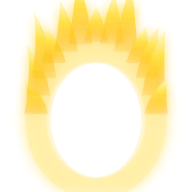
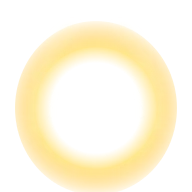
Replay: ออร่านุ่ม + ซอลมีออร่า · ลูน่านับหมัดถัดไป · คู่หูแบนเนอร์รวมชมพู+หัวใจ (user 29 ก.ย.)
- aura.webp ใหม่: เรืองทองนุ่ม ไม่มีเปลวแหลม · ซอลเองติดออร่าด้วย
- 🌙 ป้ายบนหัว = เฟสหมัดถัดไป (เริ่ม 1/3) ขยับตอนหมัดกระทบ · หมัดหน้าเต็มดวงเรืองม่วง · ตายแล้วป้ายหาย
- 💗 รางวัลคนเก่ง (🐳🦭) / องศาซัน (☀🌍 ร่างองศา): joinDuoOpening รวมยกแรกเป็นก้อนเดียว · duoRegen ก้อนเดียวต่อฝั่ง
  แบนเนอร์สีชมพู + ท่าหัวใจ (heart.webp)
- หมายเหตุ: ตำนานได้บัฟซอลเป็นบั๊กของห้องแล็บ (ส่งแค่ id ไม่ส่ง rarity) ไม่ใช่ของเกมจริง

diff --git a/src/components/battle/BattleReplay.vue b/src/components/battle/BattleReplay.vue
@@ -380,7 +380,7 @@ function showMini(e, force = false) {
   if (!force && now - (miniLast.get(e.uid) || -1e9) < MINI_GAP_MS / (pace.value || 1)) return
   miniLast.set(e.uid, now)
   miniView.value = { face: defForUid(e.uid)?.emoji || '✨', icon: e.icon || null, name: skillTitle(e), side: e.uid[0],
-    tint: tintOf(e.petId || defForUid(e.uid)?.id, e.fxKind) }
+    tint: isDuoEvent(e) ? tintOf('duo') : tintOf(e.petId || defForUid(e.uid)?.id, e.fxKind) }
   const el = miniEl.value; if (!el) return
   el.classList.remove('on'); void el.offsetWidth; el.classList.add('on')
 }
@@ -423,7 +423,7 @@ function clearHighlights() { Object.values(els).forEach(el => el && el.classList
 function setDead(uid) {
   const dead = (hp.value[uid] ?? 100) <= 0
   highlight(uid, 'dead', dead)
-  if (dead) { fx?.linkHide(uid); fx?.auraOff(uid) }   // 🐘 เส้นลิงก์ดับ · ☀ ออร่าดับ
+  if (dead) { fx?.linkHide(uid); fx?.auraOff(uid); if (chipOn.value[uid]?.hold) hideChip(uid) }   // 🐘 เส้นลิงก์ · ☀ ออร่า · ป้ายค้าง ดับตามตัว
 }
 
 // ── fx pool (Phase 2a): pops/callouts/koPuff/projectile ออกจาก Vue reactivity → plain WAAPI pool ──
@@ -528,6 +528,7 @@ const tuning = computed(() => props.data?.tuning || {})
 // rng: ลำดับโชว์ยกแรกสุ่มใหม่ทุกไฟต์ (แสดงผลล้วน ไม่แตะผลไฟต์)
 const beats = computed(() => buildBeats(rawLog.value, maxHp, {
   rng: Math.random, showPets: LEGEND_SHOW, statsBase, bannerByCount: tuning.value.bannerByCount !== false,
+  duoPairs: duoPairsOf(props.data),
   ...(typeof tuning.value.hitSpread === 'number' ? { hitSpread: tuning.value.hitSpread } : {}),
 }))
 const done = computed(() => idx.value >= beats.value.length)
@@ -713,6 +714,7 @@ const teamIds = computed(() => ({
 /** ชื่อที่ควรพิมพ์บนชิป/แบนเนอร์ของ event นี้ (log ยังแบกชื่อจริงไว้เสมอ) */
 function skillTitle(e) {
   if (e.fxKind === 'chain') return 'ฟาดต่อเนื่อง!'   // 👹 ฟาดล้มแล้วตีต่อ (29 ก.ย. user)
+  if (isDuoEvent(e) && ['sol', 'earth'].includes(e.petId)) return 'องศาซัน'
   if (e.effect === 'fullMoon') return 'FULL MOON SHOT!'   // 🌙 เต็มดวง (29 ก.ย. user)
   return passiveTitle(e.name || 'ทักษะเฉพาะ', e.petId, teamIds.value[e.side] || null)
 }
@@ -880,6 +882,10 @@ function holdChip(uid, name, icon, tone = '') {
 }
 // 🌙 ป้ายนับเฟสบนหัว 1/3 → 2/3 (เรืองม่วง = หมัดหน้าเต็มดวง) → 3/3 · ติดหลังหมัดจบ (event มาก่อนหมัดใน log)
 const lunaPhase = new Map()   // uid → เฟสของหมัดที่เพิ่งออก (0 ดับ · 1 เสี้ยว · 2 เต็ม)
+/** ป้ายบนหัวลูน่า = เฟสของหมัดถัดไป n/3 · หมัดหน้าเต็มดวง = เรืองม่วง */
+function lunaChip(uid, next) {
+  holdChip(uid, `${next + 1}/3`, ['🌑', '🌙', '🌕'][next], next === 2 ? 'moon' : 'luna')
+}
 function hideChip(uid) {
   const cur = chipOn.value[uid]; if (!cur) return
   chipOn.value = { ...chipOn.value, [uid]: { ...cur, out: true } }
@@ -919,7 +925,7 @@ async function spotlightPassive(e, t, g, opts = {}) {
     desc: '', side: opts.side || e.uid?.[0] || 'A',
     // หน้าคู่ (☀🌍 ร่างองศา · 🐳🦭 คู่หู) — ขึ้นเฉพาะตอนคู่นั้นทำงานอยู่จริงในทีม (duoPartnerOf เช็คให้แล้ว)
     face2: (() => { const d = defForUid(e.uid); const id = duoPartnerOf(d.id, sideTeam(e.uid[0])); return id ? getPetDef(id)?.emoji || null : null })(),
-    tint: tintOf(e.petId || defForUid(e.uid)?.id, e.fxKind),
+    tint: isDuoEvent(e) ? tintOf('duo') : tintOf(e.petId || defForUid(e.uid)?.id, e.fxKind),
   }
   spotView.value = view
   spot.value = view
@@ -948,6 +954,7 @@ function lungeStyle(beat) {
 // 🐘 เส้นลิงก์บากุ — ขึ้นตอนไฟต์เริ่ม (beat แรก) จากบากุไปเพื่อนทุกตัวที่ยังอยู่
 function showLinks() {
   ensureFx(); fx?.linkClear()
+  for (const u of Object.keys(maxHp)) if (defForUid(u)?.id === 'luna') lunaChip(u, 0)   // 🌙 เริ่มไฟต์ 1/3
   for (const [side, team] of [['A', props.data?.playerTeam], ['B', props.data?.botTeam]]) {
     ;(team || []).forEach((p, i) => {
       if (p?.id !== 'qilin') return
@@ -960,7 +967,36 @@ function showLinks() {
 // ── โชว์ไทม์เลเจนด์: ท่าประจำตัว (utils/battleShowtime.js) ลงพร้อมผลของสกิล ──
 // เล่นเฉพาะตอนสปอตไลต์ (ยกแรก/ครั้งแรก/โมเมนต์) = ครั้งละไม่กี่ทีต่อไฟต์ ไม่รก · ไม่ await (สไปรต์อยู่ชั้น fx แยกจากการ์ด)
 // tuning.showtime === false = ปิด (ห้องแล็บเทียบกับของเดิม)
+// 💗 คู่หู: รางวัลคนเก่ง (🐳🦭 อยู่ทีมเดียวกัน) · องศาซัน (☀🌍 ร่างองศา) — แบนเนอร์รวมชมพู + หัวใจ (29 ก.ย. user)
+function duoPartnerUid(e) {
+  const d = defForUid(e.uid); if (!d) return null
+  const pid = duoPartnerOf(d.id, sideTeam(e.uid[0])); if (!pid) return null
+  const i = ((e.uid[0] === 'A' ? props.data?.playerTeam : props.data?.botTeam) || []).findIndex(p => p?.id === pid)
+  return i >= 0 ? e.uid[0] + i : null
+}
+const DUO_EFFECTS = new Set(['teamHp', 'teamAtk', 'duoRegen', 'rarityBoost'])
+const isDuoEvent = (e) => DUO_EFFECTS.has(e.effect) && !!duoPartnerUid(e)
+function duoPairsOf(d) {
+  const out = []
+  for (const [side, team] of [['A', d?.playerTeam], ['B', d?.botTeam]]) {
+    const t = (team || []).filter(Boolean), at = (id) => (team || []).findIndex(p => p?.id === id)
+    for (const [x, y] of [['whale', 'seal'], ['sol', 'earth']]) {
+      if (at(x) < 0 || at(y) < 0) continue
+      if (x === 'sol' && !degreeFormActive(t)) continue
+      out.push([side + at(x), side + at(y)])
+    }
+  }
+  return out
+}
+
 function playShowtime(e) {
+  if (isDuoEvent(e)) {
+    if (tuning.value.showtime === false) return
+    const side = e.uid[0]
+    fx?.showtime('duo', { owner: e.uid, partner: duoPartnerUid(e),
+      team: Object.keys(maxHp).filter(u => u[0] === side && (hp.value[u] ?? 100) > 0) })
+    if (e.effect !== 'rarityBoost') return   // ซัน: ยังเล่นดวงอาทิตย์ต่อด้วย
+  }
   if (e.effect === 'infect' || e.effect === 'infectSpread') return   // 👾 แปะเชื้อ = แค่ป้ายชั้น · ควันแตกตอนโดนตี (landBurst)
   if (e.effect === 'infectBurst' && !e.landing) return
   if (tuning.value.showtime === false || !hasShowtime(e.petId)) return
@@ -1001,7 +1037,10 @@ function firePassiveFx(e) {
   if (e.fxKind === 'windup') { holdChip(e.uid, 'ง้างตะบอง…', '💢'); boostOni(e.uid) }
   if (e.fxKind === 'chain') sfx('p_chain')
   // ☀ ซอล: ตัวที่ได้บัฟติดออร่าซูเปอร์ไซย่า แรงตาม % (ธรรมดา 50 = เต็ม) · ตำนานไม่ได้ = ไม่มีออร่า
-  if (e.effect === 'rarityBoost' && e.boosts) for (const [u, pct] of Object.entries(e.boosts)) fx?.auraOn(u, pct / 50)
+  if (e.effect === 'rarityBoost' && e.boosts) {
+    for (const [u, pct] of Object.entries(e.boosts)) fx?.auraOn(u, pct / 50)
+    fx?.auraOn(e.uid, 0.6)   // ซอลเองไม่ได้บัฟ แต่เป็นต้นแสง ⇒ มีออร่าด้วย (29 ก.ย. user)
+  }
   if ((e.fxKind === 'moon' || e.fxKind === 'fullMoon') && typeof e.phase === 'number') lunaPhase.set(e.uid, e.phase)
 
   // ── หลอดเลือด: ฮีล/ฟื้น/รับแทน ทำให้เลือดเปลี่ยนโดยไม่มี attack event
@@ -1144,7 +1183,7 @@ function applyImpact(beat, g, t) {
   //    ถ้าวันหลังเพิ่ม kind ใหม่แล้วลืมเขียนกิ่ง จะได้ default (เงียบ) ซึ่งปลอดภัย ไม่ใช่ดังสุด
   const spark = sparkOf(defForUid(beat.attacker))
   const w = beat.weight ?? 0
-  if (chipOn.value[beat.attacker]?.hold) hideChip(beat.attacker)
+  if (chipOn.value[beat.attacker]?.hold && !chipOn.value[beat.attacker].tone) hideChip(beat.attacker)   // ป้ายโอนิ · ป้ายลูน่าค้างตลอด
   // หมัดลูก (สะท้อนเกราะ/cleave) อยู่ใน beat ของหมัดหลักที่ยังไม่มาถึง — ห้ามปล่อยเชื้อค้างทิ้ง
   if (beat.kind !== 'sub') {
     for (const u of [...pendingInfect.keys()]) if (u !== beat.attacker) landInfect(u, null)
@@ -1262,7 +1301,9 @@ async function applyAttack(beat) {
 
   await wait(t.motion); if (g !== gen) return
   applyImpact(beat, g, t)
-  landInfect(beat.attacker, beat.target)   // 👾 ควันเชื้อระเบิดจากจุดกระทบ ฟุ้งไปทั้งทีม
+  landInfect(beat.attacker, beat.target)
+  // 🌙 ตัวนับเฟสขยับตอนหมัดกระทบ แล้วบอก "หมัดถัดไป" (29 ก.ย. user) · เปลี่ยนข้อความป้ายกลางท่าพุ่ง = การ์ดวาดใหม่ 1 ครั้ง/หมัดลูน่า (ยอม)
+  if (lunaPhase.has(beat.attacker)) { const ph = lunaPhase.get(beat.attacker); lunaPhase.delete(beat.attacker); lunaChip(beat.attacker, (ph + 1) % 3) }   // 👾 ควันเชื้อระเบิดจากจุดกระทบ ฟุ้งไปทั้งทีม
   // 👹 หมัดฟาดของโอนิ: ฟ้าผ่าลงที่เป้า + จอสั่น (ท่าเดียวกับโชว์ไทม์ แต่ลงที่ตัวที่โดน)
   if (def?.id === 'kirin' && beat.kind !== 'sub' && tuning.value.showtime !== false) { fx?.showtime('kirin', { owner: beat.target }); fx?.shake('ko') }
   await wait(t.hitstop); if (g !== gen) return
@@ -1270,10 +1311,7 @@ async function applyAttack(beat) {
   await wait(t.tail); if (g !== gen) return
   highlight(beat.attacker, 'acting', false)
   if (oniBoost.has(beat.attacker) && !chainFollows(beat.attacker)) unboostOni(beat.attacker)
-  if (lunaPhase.has(beat.attacker)) {
-    const ph = lunaPhase.get(beat.attacker); lunaPhase.delete(beat.attacker)
-    holdChip(beat.attacker, `${ph + 1}/3`, ['🌑', '🌙', '🌕'][ph] || '🌙', ph === 1 ? 'moon' : 'luna')
-  }
+
 }
 
 // ── กันเปิด beat chain ซ้อนกัน 2 สาย ──

diff --git a/src/utils/battleBeats.js b/src/utils/battleBeats.js
@@ -131,7 +131,9 @@ export function weightOf(e, dmgPct) {
 export const OUT_OF_GROUP_EFFECTS = new Set(['duoRegen', 'teamLifesteal'])
 
 /** คีย์ของ "ก้อน" = เพ็ทหนึ่งตัวยิงสกิลของตัวเองติดกัน · effect ที่ไม่ใช่สกิลของใบนั้นได้คีย์ของตัวเอง */
-const groupIdOf = (e) => (OUT_OF_GROUP_EFFECTS.has(e.effect) ? `${e.uid || ''}#${e.effect}` : (e.uid || ''))
+// duoRegen ของคู่ (🐳🦭 ฟื้นพร้อมกันทั้งคู่) = ก้อนเดียวต่อฝั่ง ⇒ แบนเนอร์ "รางวัลคนเก่ง" ขึ้นครั้งเดียว ไม่ใช่ตัวละใบ
+const groupIdOf = (e) => (e.effect === 'duoRegen' ? `${e.side || (e.uid || '')[0]}#duoRegen`
+  : OUT_OF_GROUP_EFFECTS.has(e.effect) ? `${e.uid || ''}#${e.effect}` : (e.uid || ''))
 
 /**
  * ตัดกลุ่ม "ยกแรก" ที่ตรงไหน
@@ -158,8 +160,8 @@ function openCutOf(evts) {
  * @returns {Array} beat[] ยาวเท่า log เสมอ (1 event = 1 beat) เพื่อให้ index ตรงกับของเดิม
  */
 // showPets: Set ของ petId ที่ครั้งแรกของสกิลได้โชว์ไทม์ (skillShow) แทน skill · ครั้งเดียวต่อตัวต่อไฟต์
-export function buildBeats(log, maxHpByUid, { rng = null, showPets = null, hitSpread = HIT_SPREAD, statsBase = null, bannerByCount = false } = {}) {
-  const evts = withStatDeltas(Array.isArray(log) ? log : [], statsBase)
+export function buildBeats(log, maxHpByUid, { rng = null, showPets = null, hitSpread = HIT_SPREAD, statsBase = null, bannerByCount = false, duoPairs = null } = {}) {
+  const evts = joinDuoOpening(withStatDeltas(Array.isArray(log) ? log : [], statsBase), duoPairs)
   const mh = maxHpByUid || {}
 
   // ── pass 1: %เลือดที่หายจริงของทุกหมัด ──
@@ -238,6 +240,8 @@ export function buildBeats(log, maxHpByUid, { rng = null, showPets = null, hitSp
   // ทำแบบนี้เพราะต้องคง "1 event = 1 beat" ไว้ (index ต้องตรงกับ log)
   const pKind = new Map()
   const openCut = openCutOf(evts)
+  const duoOf = new Map()
+  for (const [a, b] of duoPairs || []) { duoOf.set(a, a + '&' + b); duoOf.set(b, a + '&' + b) }
   {
     // ยกแรก: ก้อนละเพ็ท (event ติดกันของ uid เดียวกัน) → ใบท้ายก้อนได้ openShow ถือเวลาโชว์ · ใบอื่น openQuiet 0ms
     //   (ผลของใบ openQuiet ถูกพักไว้ลงพร้อมโชว์ของก้อนตัวเอง — ดู BattleReplay.applyPassive)
@@ -245,7 +249,8 @@ export function buildBeats(log, maxHpByUid, { rng = null, showPets = null, hitSp
       const e = evts[i]
       if (!e || e.t !== 'passive') continue
       const nx = evts[i + 1]
-      const lastOfChunk = !(i + 1 < openCut && nx && nx.t === 'passive' && nx.uid === e.uid)
+      const same = (x) => x.uid === e.uid || (duoOf.has(e.uid) && duoOf.get(x.uid) === duoOf.get(e.uid))
+      const lastOfChunk = !(i + 1 < openCut && nx && nx.t === 'passive' && same(nx))
       pKind.set(i, lastOfChunk ? 'openShow' : 'openQuiet')
     }
 
@@ -424,6 +429,23 @@ export function withStatDeltas(evts, base) {
     }
     return { ...e, statsDelta: d }
   })
+}
+
+/** 💗 คู่หู (รางวัลคนเก่ง · องศาซัน): ย้ายใบยกแรกของคู่ให้อยู่ติดกัน ⇒ ก้อนเดียว แบนเนอร์เดียว (29 ก.ย. user)
+ *  ยกแรกเกิดพร้อมกันทั้งหมด (shuffleOpening สลับได้อยู่แล้ว) จึงย้ายลำดับได้โดยไม่เปลี่ยนผล · statsDelta คิดก่อนหน้านี้แล้ว */
+export function joinDuoOpening(evts, pairs) {
+  if (!pairs?.length) return evts
+  const cut = openCutOf(evts)
+  const head = evts.slice(0, cut), tail = evts.slice(cut)
+  for (const [a, b] of pairs) {
+    const firstA = head.findIndex(e => e?.t === 'passive' && (e.uid === a || e.uid === b))
+    if (firstA < 0) continue
+    const mine = head.filter(e => e?.t === 'passive' && (e.uid === a || e.uid === b))
+    const rest = head.filter(e => !(e?.t === 'passive' && (e.uid === a || e.uid === b)))
+    rest.splice(Math.min(firstA, rest.length), 0, ...mine)
+    head.splice(0, head.length, ...rest)
+  }
+  return head.concat(tail)
 }
 
 /** สลับลำดับโชว์ของยกแรกทีละก้อน (ก้อน = เพ็ทหนึ่งตัว) — ทุกอย่างในยกแรกเกิดพร้อมกันอยู่แล้ว (aura)

diff --git a/src/utils/battleShowtime.js b/src/utils/battleShowtime.js
@@ -6,7 +6,7 @@
 //   x/y = พิกัดในกล่องไฟต์ (เดียวกับ fx.centerOf) · s = สเกล (ภาพฐาน 96px) · r = องศา · o = ความทึบ · at = offset 0..1
 
 export const SHOWTIME_ART = ['flame', 'roar', 'wave', 'wings', 'feather', 'smash', 'claw', 'ouro', 'talon',
-  'dream', 'smoke', 'quake', 'stone', 'sun', 'leaf', 'moon', 'star', 'aura']
+  'dream', 'smoke', 'quake', 'stone', 'sun', 'leaf', 'moon', 'star', 'aura', 'heart']
 
 /** เพดานสไปรต์ต่อโชว์ — ต้อง ≤ ขนาดพูลใน battlefx (กันยึดชิ้นที่ยังเล่นอยู่) */
 export const SHOWTIME_MAX = 12
@@ -117,6 +117,17 @@ const PLANS = {
   ],
 }
 
+// 💗 คู่หู (รางวัลคนเก่ง 🐳🦭 · องศาซัน ☀🌍) — หัวใจลอยจากทั้งคู่มาเจอกันกลางทาง แล้วหัวใจเล็กลอยบนทีม
+PLANS.duo = ({ owner, partner, team }) => {
+  const p2 = partner || owner
+  const mid = { x: (owner.x + p2.x) / 2, y: Math.min(owner.y, p2.y) - 30 }
+  return [owner, p2].map((p, i) => ({ img: 'heart', ms: 560, delay: i * 80, ease: 'cubic-bezier(.3,.6,.4,1)',
+    kf: [P(p, .3, 0), P(p, .6, 1, i ? 12 : -12, 0, -12, .3), P(mid, .75, 1, 0)] }))
+    .concat({ img: 'heart', ms: 520, delay: 600, ease: 'cubic-bezier(.2,.8,.3,1)', kf: [P(mid, .8, 1), P(mid, 1.6, 0)] })
+    .concat(team.slice(0, 4).map((p, i) => ({ img: 'heart', ms: 620, delay: 700 + i * 70, ease: 'ease-out',
+      kf: [P(p, .2, 0, 0, 10, -6), P(p, .38, 1, -8, 12, -24, .4), P(p, .3, 0, 8, 16, -44)] })))
+}
+
 /** เพ็ทตัวนี้มีท่าโชว์ไทม์ของตัวเองไหม */
 export const hasShowtime = (petId) => !!PLANS[petId]
 
@@ -140,7 +151,7 @@ export const PET_TINT = {
   bahamut: ['#c2410c', '#7f1d1d'], lion: ['#a16207', '#78350f'], whale: ['#0369a1', '#1e3a8a'],
   phoenix: ['#c2410c', '#9f1239'], kirin: ['#b91c1c', '#450a0a'], trex: ['#9a3412', '#3f1d0b'],
   ouroboros: ['#15803d', '#14532d'], simurgh: ['#0e7490', '#164e63'], qilin: ['#7e22ce', '#3b0764'],
-  virus: ['#86198f', '#3b0764'], gorilla: ['#92400e', '#451a03'], mammoth: ['#78716c', '#292524'],
+  virus: ['#86198f', '#3b0764'], duo: ['#be185d', '#831843'], gorilla: ['#92400e', '#451a03'], mammoth: ['#78716c', '#292524'],
   sol: ['#b45309', '#7c2d12'], earth: ['#15803d', '#1e3a8a'], luna: ['#4338ca', '#1e1b4b'],
 }
 export const KIND_TINT = {

diff --git a/src/utils/battleFx.js b/src/utils/battleFx.js
@@ -481,7 +481,7 @@ export function createBattleFx() {
     const owner = centerOf(ctx.owner); if (!owner) return Promise.resolve()
     if (!boxRect && boxEl) boxRect = boxEl.getBoundingClientRect()
     const plan = showtimePlan(petId, {
-      owner, team: pts(ctx.team), foes: pts(ctx.foes), targets: pts(ctx.targets), stacks: ctx.stacks,
+      owner, team: pts(ctx.team), foes: pts(ctx.foes), targets: pts(ctx.targets), stacks: ctx.stacks, partner: ctx.partner ? centerOf(ctx.partner) : null,
       box: { w: boxRect?.width || 360, h: boxRect?.height || 560 },
     })
     return Promise.all(plan.map(sp => {
